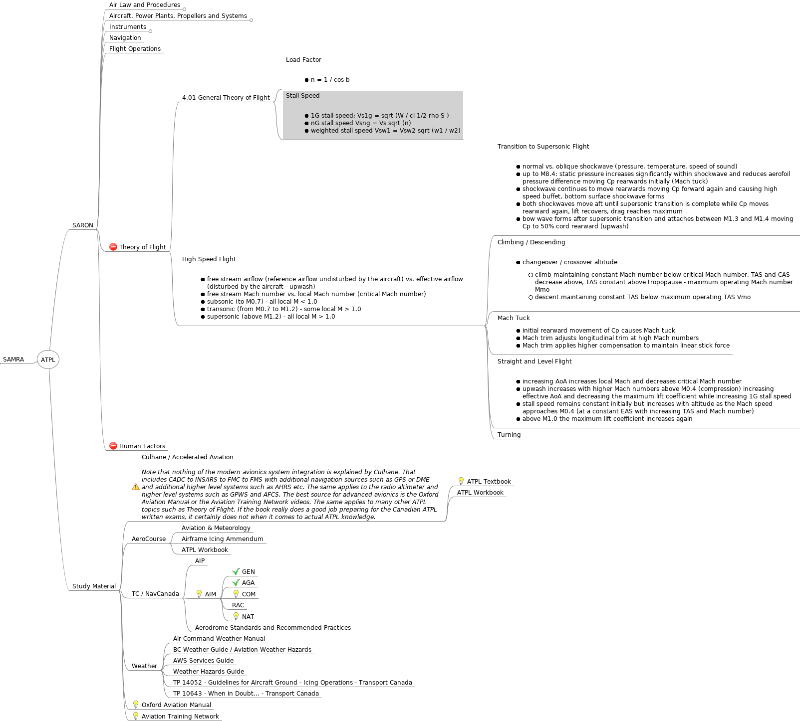
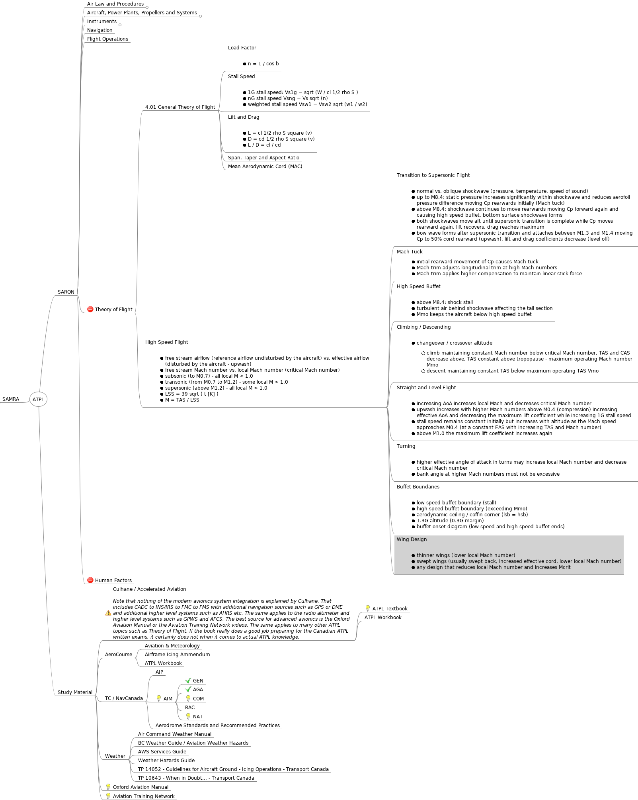
extended ATPL mind map

diff --git a/ATPL/ATPL.mm b/ATPL/ATPL.mm
@@ -5848,8 +5848,7 @@
       </li>
     </ul>
   </body>
-</html>
-</richcontent>
+</html></richcontent>
 </node>
 <node CREATED="1571791977756" ID="ID_620857148" MODIFIED="1571792983377">
 <richcontent TYPE="NODE"><html>
@@ -5875,11 +5874,39 @@
       </li>
     </ul>
   </body>
+</html></richcontent>
+</node>
+<node CREATED="1571795030438" ID="ID_1185899766" MODIFIED="1571795130828">
+<richcontent TYPE="NODE"><html>
+  <head>
+    
+  </head>
+  <body>
+    <p>
+      Lift and Drag
+    </p>
+    <p>
+      
+    </p>
+    <ul>
+      <li>
+        L = cl 1/2 rho S square (v)
+      </li>
+      <li>
+        D = cd 1/2 rho S square (v)
+      </li>
+      <li>
+        L / D = cl / cd
+      </li>
+    </ul>
+  </body>
 </html>
 </richcontent>
 </node>
+<node CREATED="1571795140889" ID="ID_591096612" MODIFIED="1571795152185" TEXT="Span, Taper and Aspect Ratio"/>
+<node CREATED="1571795169821" ID="ID_1283277097" MODIFIED="1571795179785" TEXT="Mean Aerodynamic Cord (MAC)"/>
 </node>
-<node CREATED="1571698150394" ID="ID_330232180" MODIFIED="1571786598782">
+<node CREATED="1571698150394" ID="ID_330232180" MODIFIED="1571794961115">
 <richcontent TYPE="NODE"><html>
   <head>
     
@@ -5907,10 +5934,17 @@
       <li>
         supersonic (above M1.2) - all local M &gt; 1.0
       </li>
+      <li>
+        LSS = 39 sqrt ( t [K] )
+      </li>
+      <li>
+        M = TAS / LSS
+      </li>
     </ul>
   </body>
-</html></richcontent>
-<node CREATED="1571772713614" ID="ID_1223245095" MODIFIED="1571774094314">
+</html>
+</richcontent>
+<node CREATED="1571772713614" ID="ID_1223245095" MODIFIED="1571797657106">
 <richcontent TYPE="NODE"><html>
   <head>
     
@@ -5930,17 +5964,68 @@
         up to M8.4: static pressure increases significantly within shockwave and reduces aerofoil pressure difference moving Cp rearwards initially (Mach tuck)
       </li>
       <li>
-        shockwave continues to move rearwards moving Cp forward again and causing high speed buffet, bottom surface shockwave forms
+        above M8.4: shockwave continues to move rearwards moving Cp forward again and causing high speed buffet, bottom surface shockwave forms
       </li>
       <li>
         both shockwaves move aft until supersonic transition is complete while Cp moves rearward again, lift recovers, drag reaches maximum
       </li>
       <li>
-        bow wave forms after supersonic transition and attaches between M1.3 and M1.4 moving Cp to 50% cord rearward (upwash)
+        bow wave forms after supersonic transition and attaches between M1.3 and M1.4 moving Cp to 50% cord rearward (upwash), lift and drag coefficients decrease (level off)
+      </li>
+    </ul>
+  </body>
+</html>
+</richcontent>
+</node>
+<node CREATED="1571705639473" ID="ID_1841809956" MODIFIED="1571774888019">
+<richcontent TYPE="NODE"><html>
+  <head>
+    
+  </head>
+  <body>
+    <p>
+      Mach Tuck
+    </p>
+    <ul>
+      <li>
+        initial rearward movement of Cp causes Mach tuck
+      </li>
+      <li>
+        Mach trim adjusts longitudinal trim at high Mach numbers
+      </li>
+      <li>
+        Mach trim applies higher compensation to maintain linear stick force
       </li>
     </ul>
   </body>
 </html></richcontent>
+</node>
+<node CREATED="1571794608360" ID="ID_1560593153" MODIFIED="1571797743372">
+<richcontent TYPE="NODE"><html>
+  <head>
+    
+  </head>
+  <body>
+    <p>
+      High Speed Buffet
+    </p>
+    <p>
+      
+    </p>
+    <ul>
+      <li>
+        above M8.4: shock stall
+      </li>
+      <li>
+        turbulent air behind shockwave affecting the tail section
+      </li>
+      <li>
+        Mmo keeps the aircraft below high speed buffet
+      </li>
+    </ul>
+  </body>
+</html>
+</richcontent>
 </node>
 <node CREATED="1571705477861" ID="ID_1408529317" MODIFIED="1571774471671">
 <richcontent TYPE="NODE"><html>
@@ -5966,29 +6051,6 @@
             descent maintaining constant TAS below maximum operating TAS Vmo
           </li>
         </ul>
-      </li>
-    </ul>
-  </body>
-</html></richcontent>
-</node>
-<node CREATED="1571705639473" ID="ID_1841809956" MODIFIED="1571774888019">
-<richcontent TYPE="NODE"><html>
-  <head>
-    
-  </head>
-  <body>
-    <p>
-      Mach Tuck
-    </p>
-    <ul>
-      <li>
-        initial rearward movement of Cp causes Mach tuck
-      </li>
-      <li>
-        Mach trim adjusts longitudinal trim at high Mach numbers
-      </li>
-      <li>
-        Mach trim applies higher compensation to maintain linear stick force
       </li>
     </ul>
   </body>
@@ -6023,7 +6085,90 @@
   </body>
 </html></richcontent>
 </node>
-<node CREATED="1571705497997" ID="ID_667976416" MODIFIED="1571705500617" TEXT="Turning"/>
+<node CREATED="1571705497997" ID="ID_667976416" MODIFIED="1571798542321">
+<richcontent TYPE="NODE"><html>
+  <head>
+    
+  </head>
+  <body>
+    <p>
+      Turning
+    </p>
+    <p>
+      
+    </p>
+    <ul>
+      <li>
+        higher effective angle of attack in turns may increase local Mach number and decrease critical Mach number
+      </li>
+      <li>
+        bank angle at higher Mach numbers must not be excessive
+      </li>
+    </ul>
+  </body>
+</html>
+</richcontent>
+</node>
+<node CREATED="1571798571089" ID="ID_351132262" MODIFIED="1571799018844">
+<richcontent TYPE="NODE"><html>
+  <head>
+    
+  </head>
+  <body>
+    <p>
+      Buffet Boundaries
+    </p>
+    <p>
+      
+    </p>
+    <ul>
+      <li>
+        low speed buffet boundary (stall)
+      </li>
+      <li>
+        high speed buffet boundary (exceeding Mmo)
+      </li>
+      <li>
+        aerodynamic ceiling / coffin corner (lsb = hsb)
+      </li>
+      <li>
+        1.3G altitude (0.3G margin)
+      </li>
+      <li>
+        buffet onset diagram (low speed and high speed buffet ends)
+      </li>
+    </ul>
+  </body>
+</html>
+</richcontent>
+</node>
+<node CREATED="1571799168963" ID="ID_1712252056" MODIFIED="1571799321684">
+<richcontent TYPE="NODE"><html>
+  <head>
+    
+  </head>
+  <body>
+    <p>
+      Wing Design
+    </p>
+    <p>
+      
+    </p>
+    <ul>
+      <li>
+        thinner wings (lower local Mach number)
+      </li>
+      <li>
+        swept wings (usually swept back, increased effective cord, lower local Mach number)
+      </li>
+      <li>
+        any design that reduces local Mach number and increases Mcrit
+      </li>
+    </ul>
+  </body>
+</html>
+</richcontent>
+</node>
 </node>
 </node>
 <node CREATED="1568173906119" ID="ID_1943574224" MODIFIED="1568249061487" TEXT="Human Factors">
